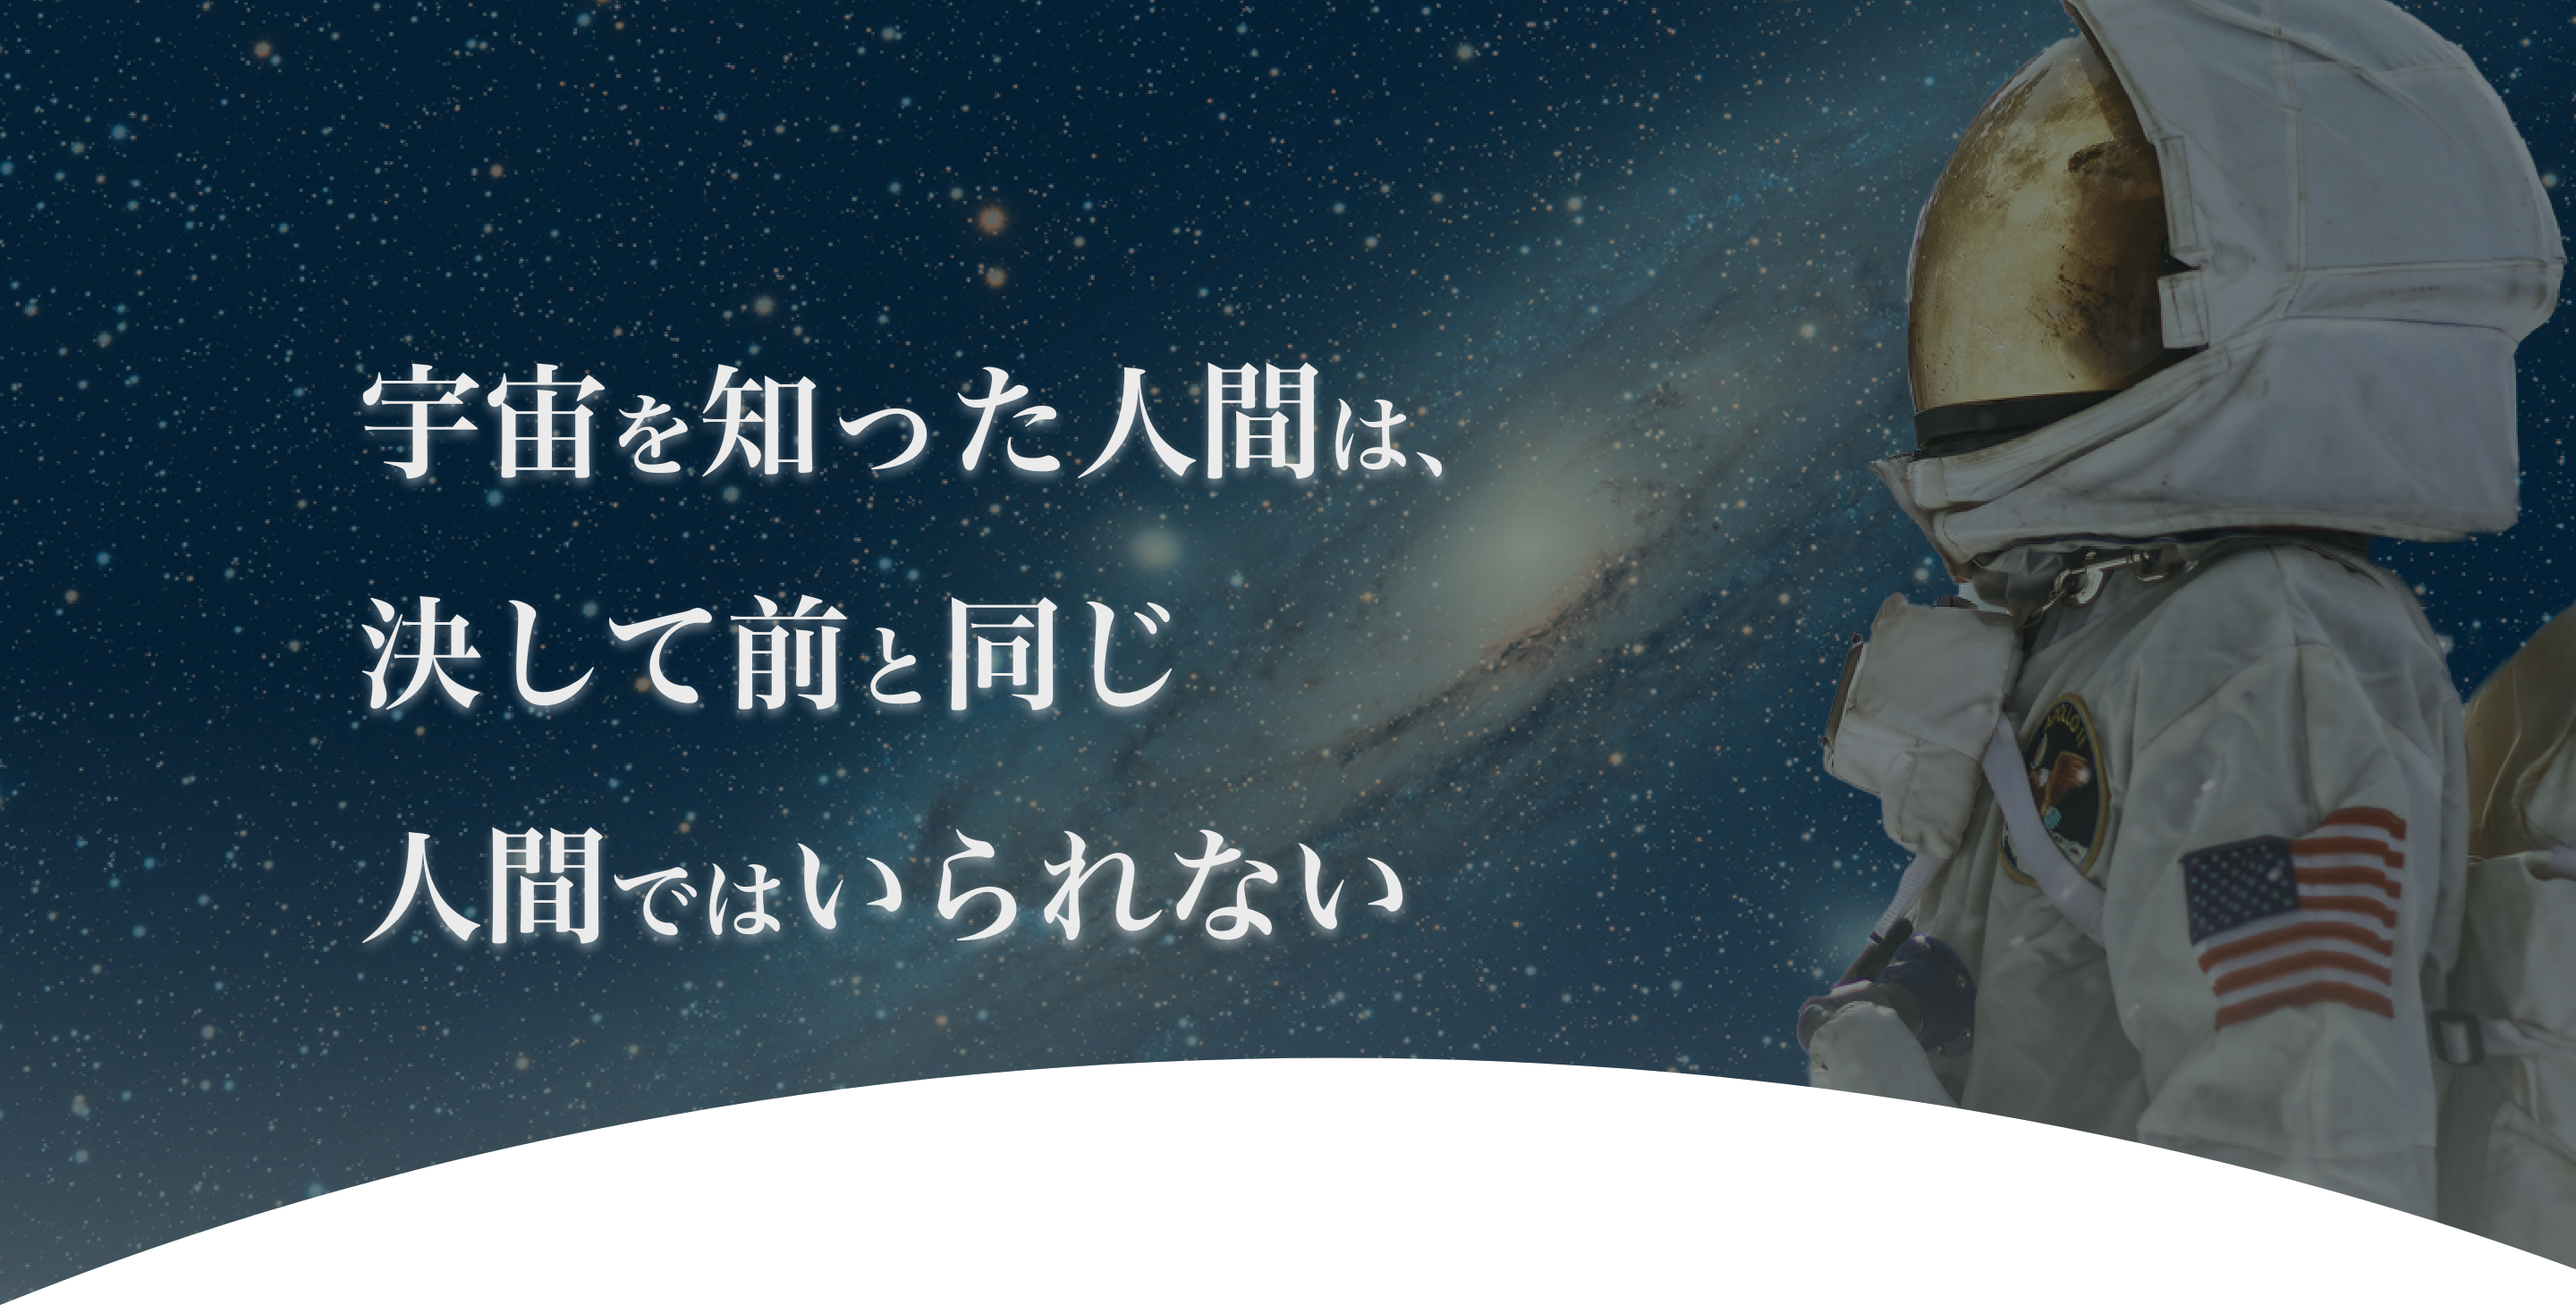
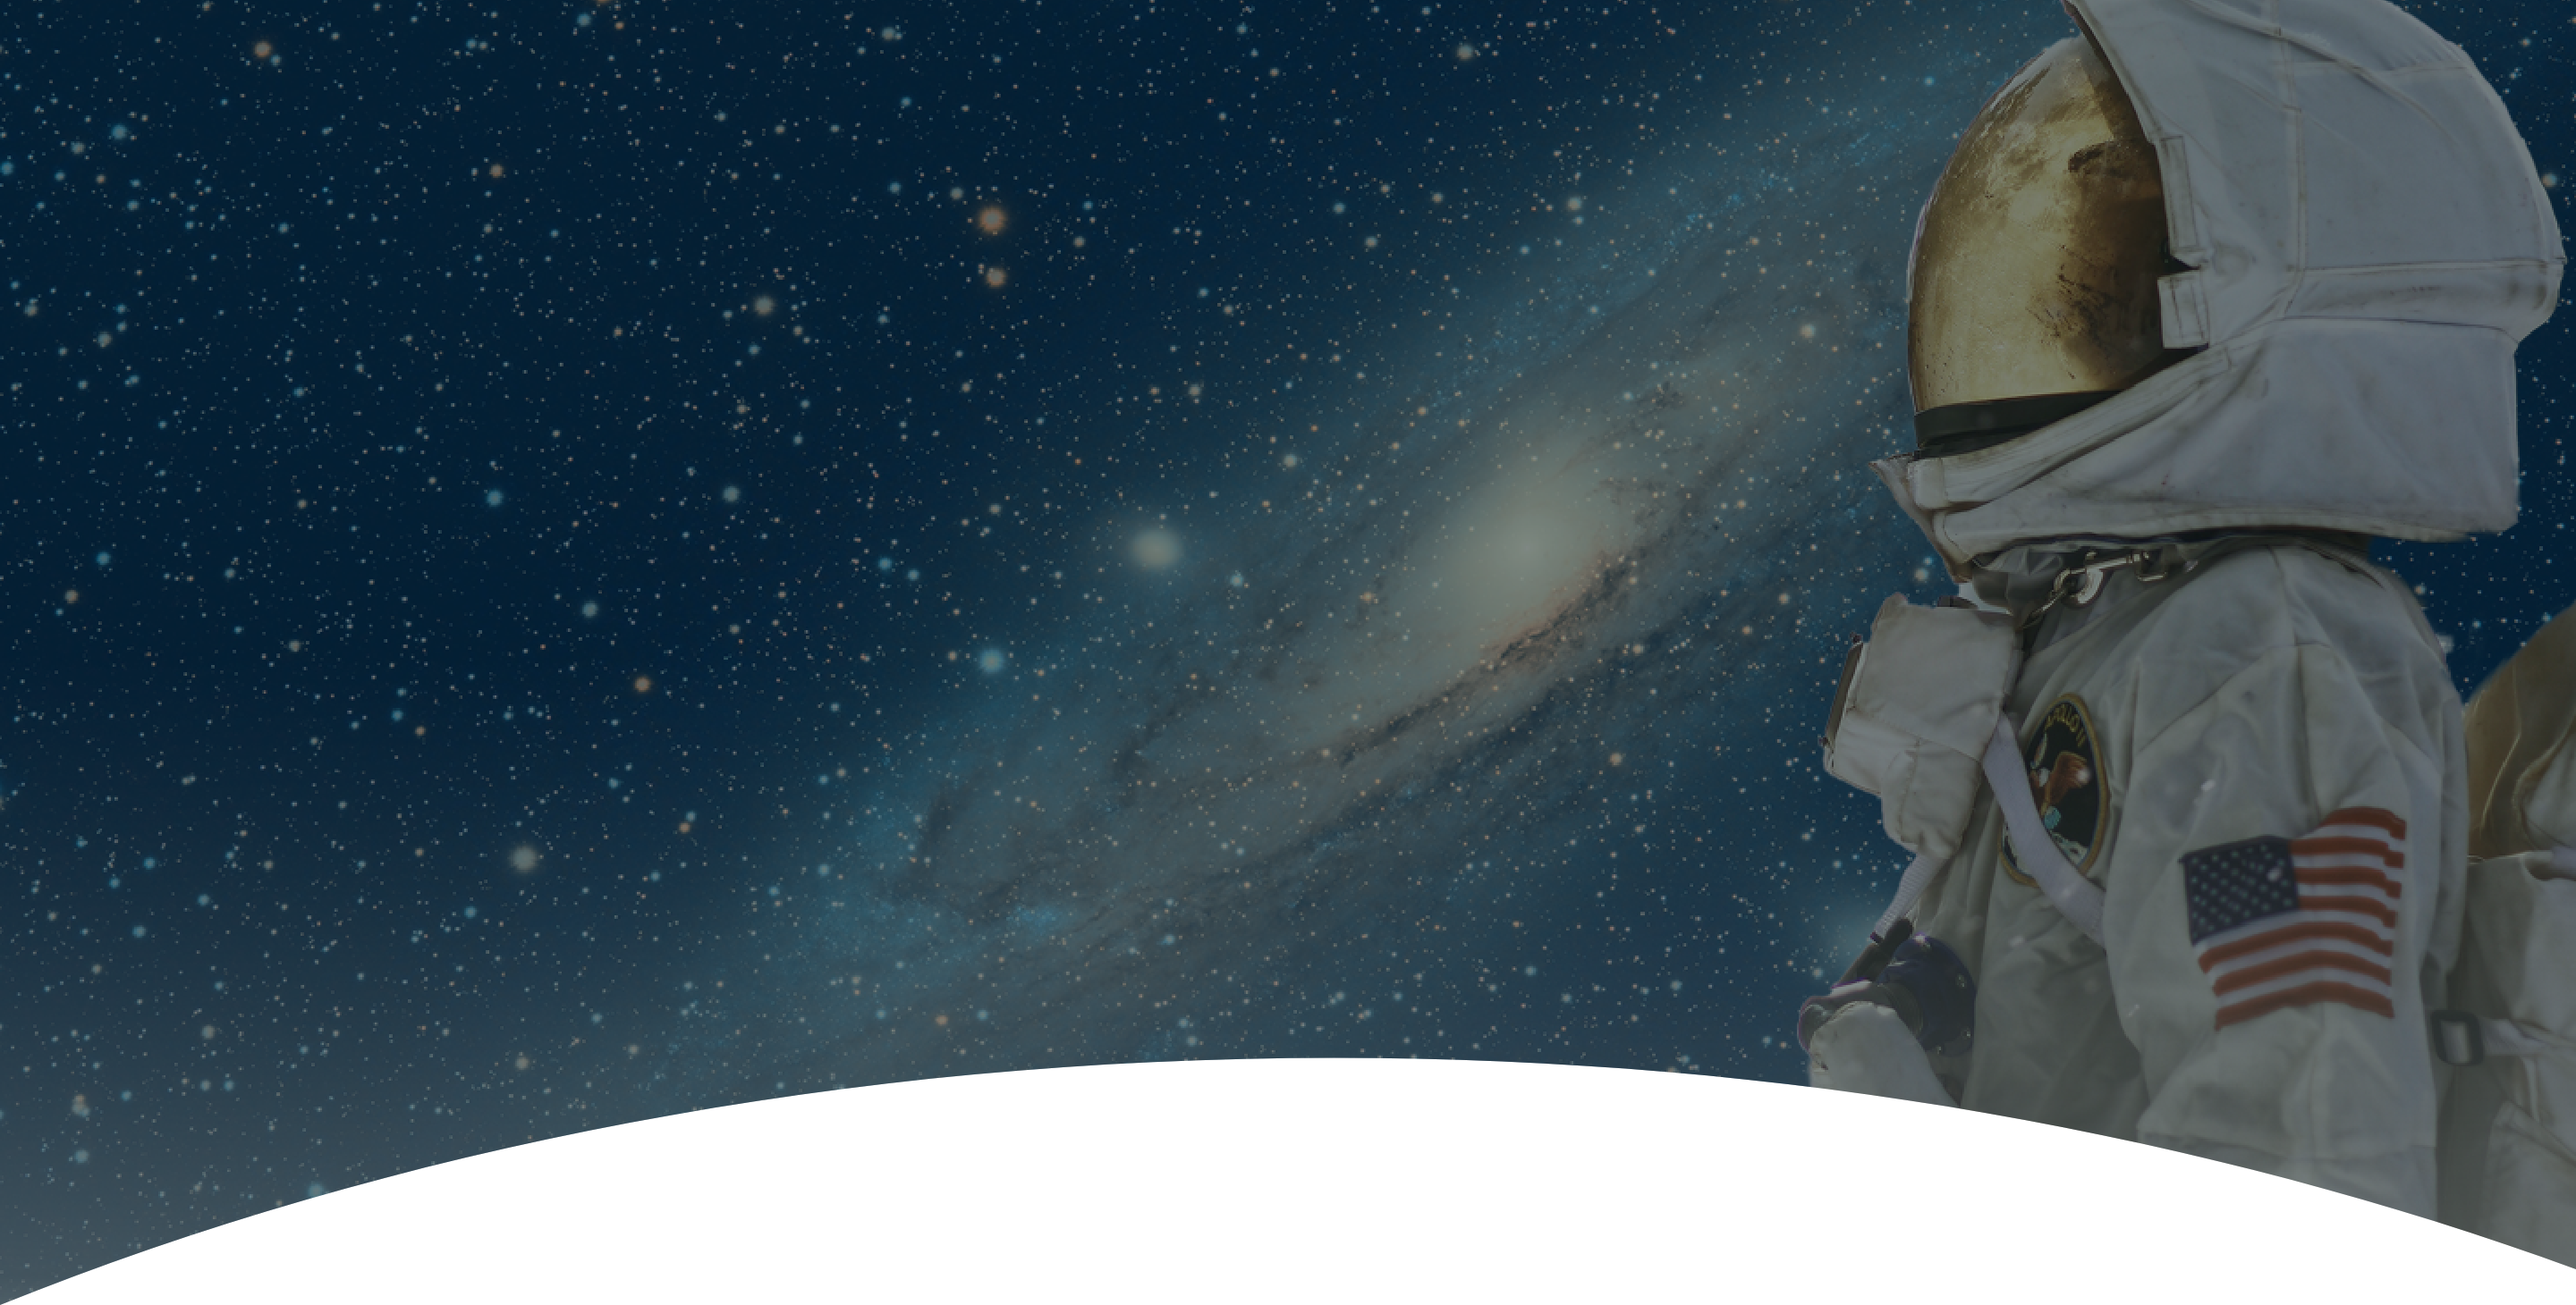
main

Changed region(s): [[0.125, 0.6164, 0.5625, 0.7397], [0.125, 0.2774, 0.5625, 0.3699], [0.125, 0.4623, 0.4688, 0.5548]]

diff --git a/src/sass/module/_main-view.scss b/src/sass/module/_main-view.scss
@@ -1,7 +1,16 @@
+@use "global" as *;
+
 .main-view {
-    height: rem(730);
+    height: vw(1440, 730);
     background-image: url(../images/common/mv.png);
     background-repeat: no-repeat;
     background-size: cover;
     background-position: top;
+    display: flex;
+    align-items: center;
+    padding-left: vw(1440, 200);
+}
+
+.main-view__title {
+    width: vw(1440, 640);
 }
